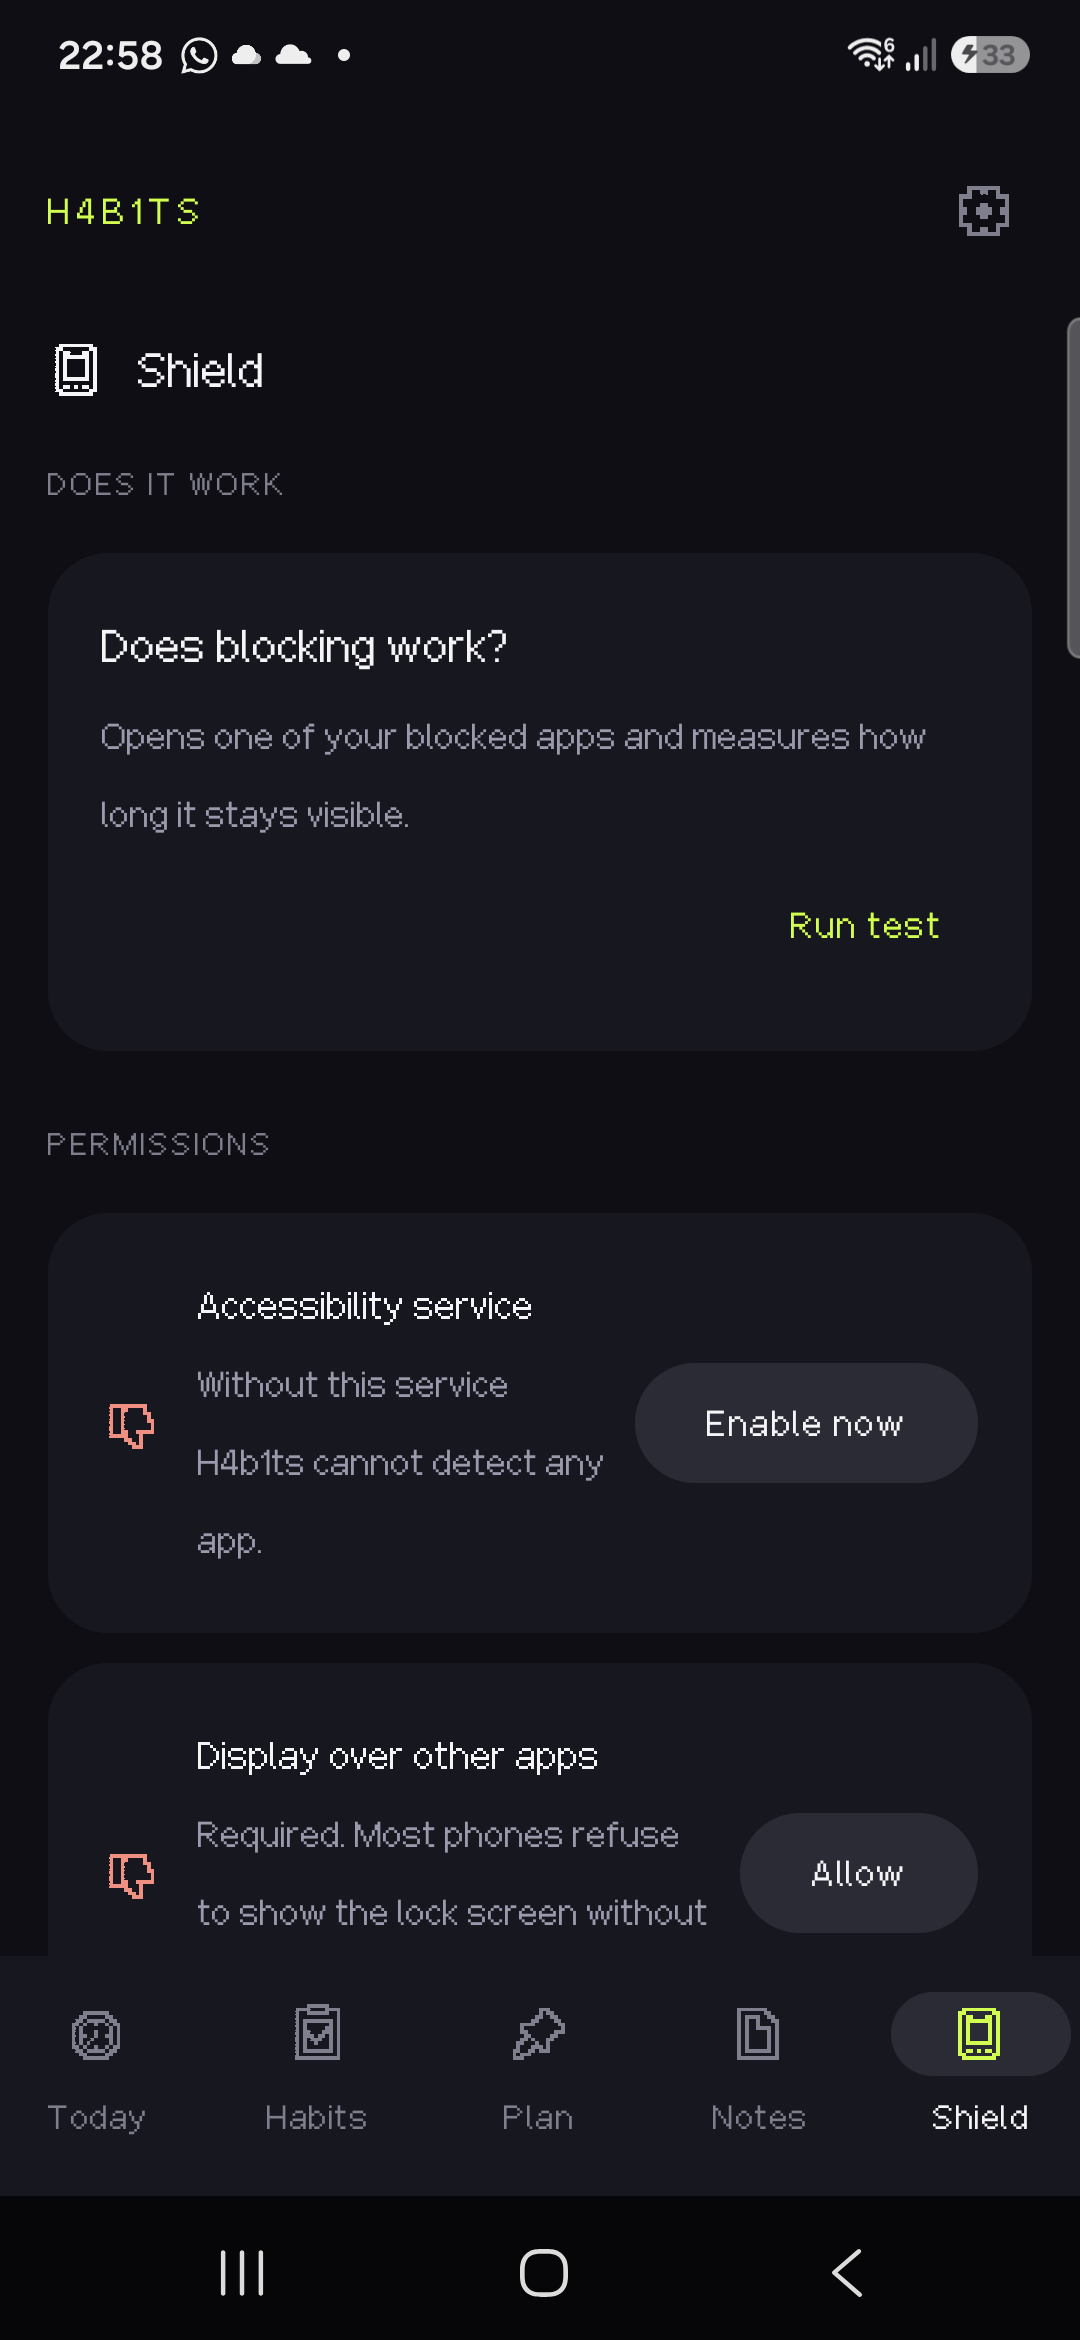
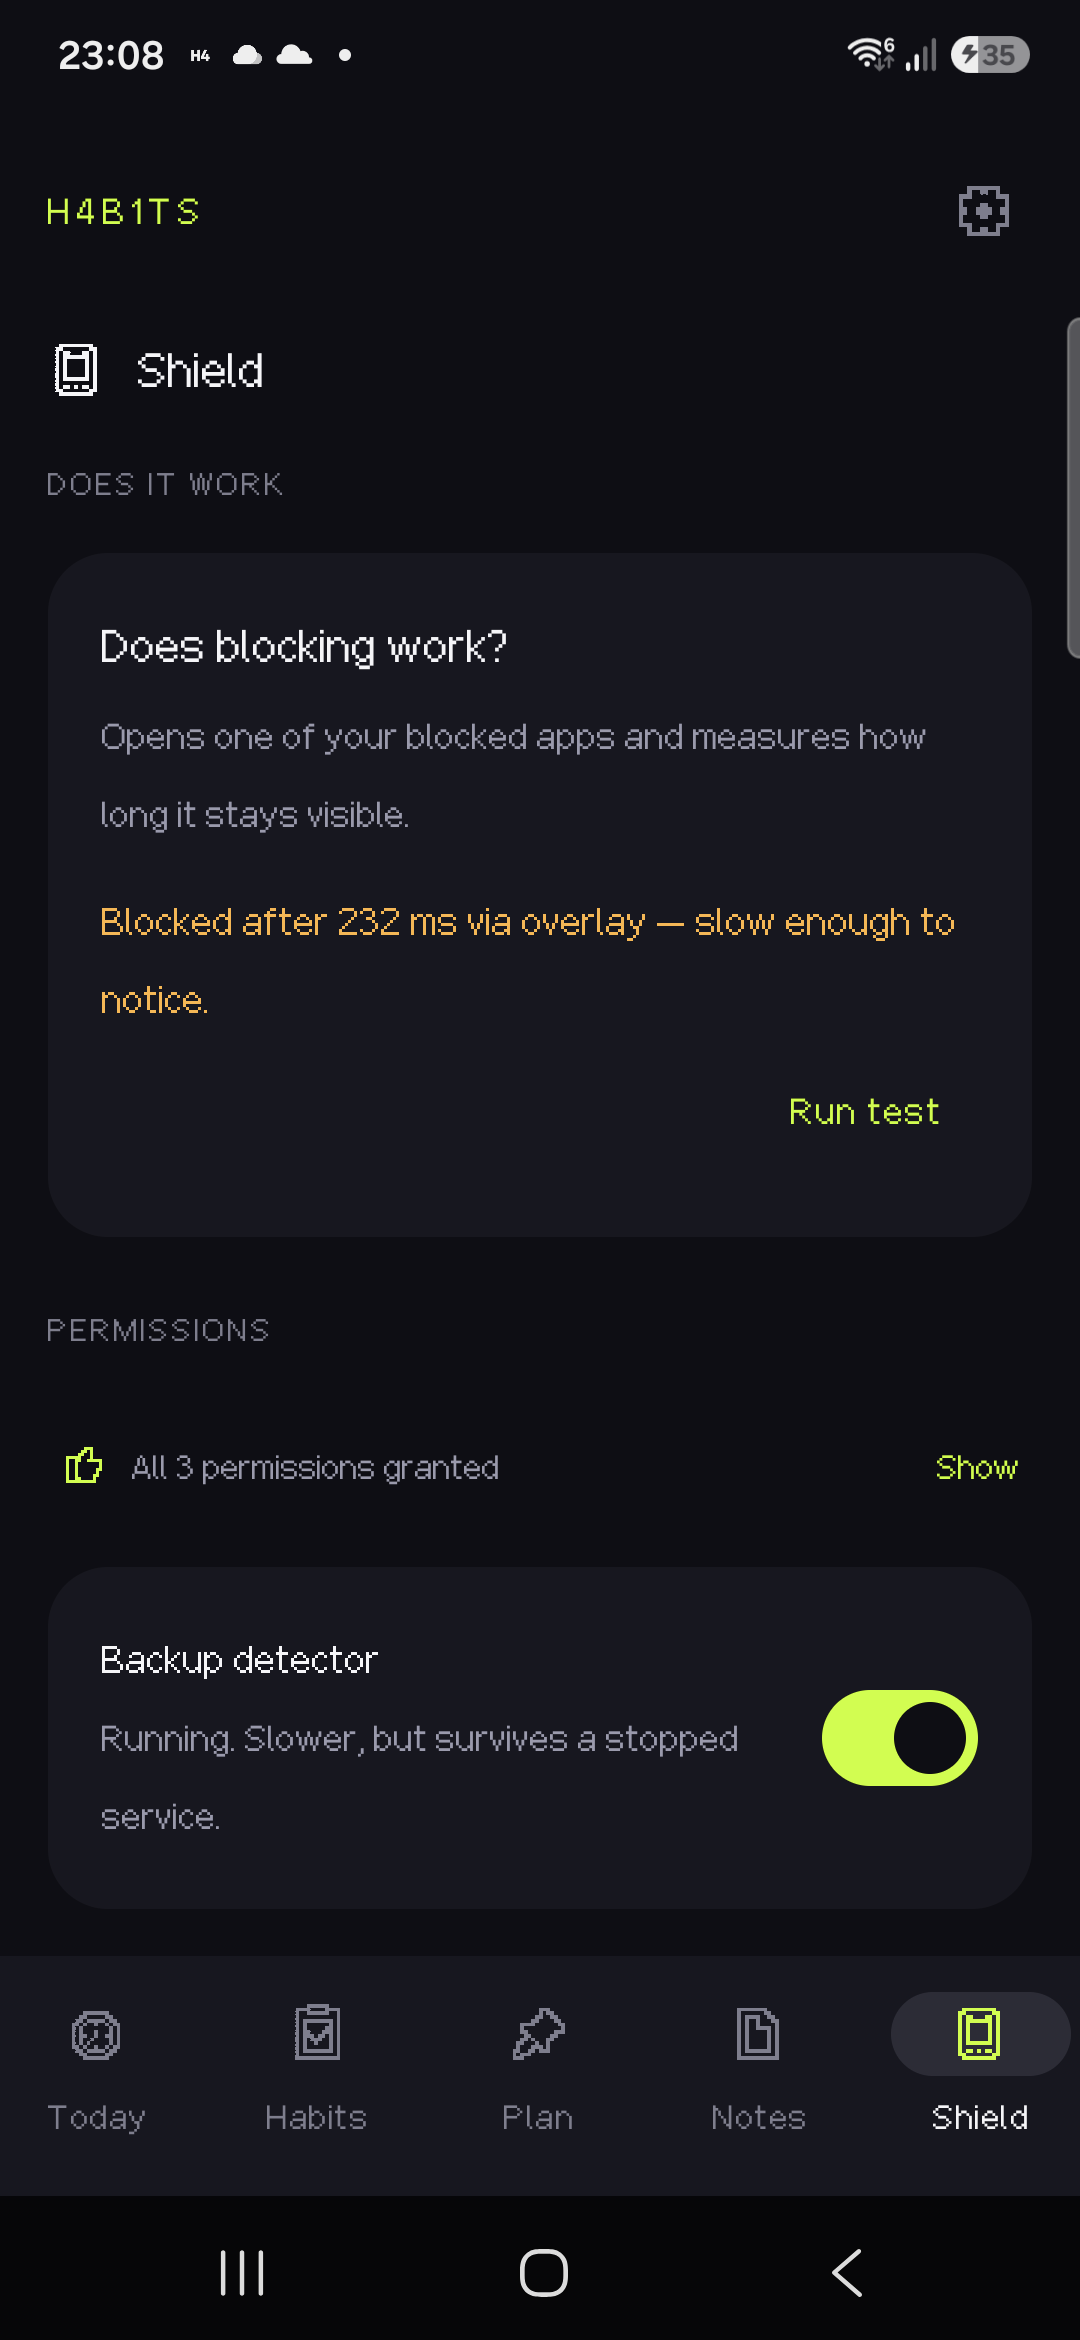
Shoot the screens the product is actually about
The first set showed the tracker and an empty shield. What distinguishes
this app from every other habit tracker — the block screen and a focus
session — was missing, because both need permissions that were not granted
yet. They are now.

- 5-block.png: a blocked app, in pure black with no accent, because a locked
  state is not supposed to have anything to offer
- 6-focus.png: session length and the strict toggle
- 4-shield.png replaced: it now shows all three permissions granted and the
  self-test result rather than a row of thumbs-down

The self-test reports "blocked after 232 ms via overlay", which the app
itself flags in orange as slow enough to notice. Blocking works; it took the
fallback path rather than the fast one. That is a finding to chase, not a
reason to hold the screenshots.

No focus session was actually started: that would have locked the owner's
phone for 25 minutes, and the dialog shows the mechanism well enough.

diff --git a/store/play-eintrag.md b/store/play-eintrag.md
@@ -168,17 +168,24 @@ Kontoeinstellung Englisch erwartet.
 |---|---|---|
 | App-Symbol | 512 × 512 PNG, 32 Bit | **vorhanden** — `branding/playstore-icon-512.png` |
 | Feature-Grafik | 1024 × 500 PNG/JPG | **vorhanden** — `branding/playstore-feature-1024x500.png` |
-| Screenshots Telefon | mind. 2, max. 8; kurze Seite ≥ 320 px | **4 vorhanden** — `branding/screenshots/`, 1080 × 2340 |
+| Screenshots Telefon | mind. 2, max. 8; kurze Seite ≥ 320 px | **6 vorhanden** — `branding/screenshots/`, 1080 × 2340 |
 | Screenshots Tablet | optional | — |
 
 Aufgenommen auf einem Galaxy S25 (Android 16) aus dem signierten
-Release-Build: Today, Habits, Plan, Shield.
+Release-Build, mit erteilten Berechtigungen:
 
-**Vor dem Upload neu aufnehmen.** In der Statusleiste steht ein
-Benachrichtigungssymbol — zulässig, aber schlampig. Mit eingeschaltetem
-„Nicht stören" wird der Satz sauber. Es fehlen außerdem die beiden Ansichten,
-die das Produkt eigentlich ausmachen: der Sperrbildschirm und eine
-Fokus-Sitzung. Beide brauchen erteilte Berechtigungen.
+| Datei | Zeigt |
+|---|---|
+| `1-today.png` | Tagesansicht mit Serie und Fortschritt |
+| `2-habits.png` | Gewohnheiten mit Identitätssatz und Wochentagen |
+| `3-plan.png` | Aufgaben |
+| `4-shield.png` | Schild mit Selbsttest-Ergebnis und Berechtigungen |
+| `5-block.png` | **der Sperrbildschirm** — das Unterscheidungsmerkmal |
+| `6-focus.png` | Fokus-Sitzung, Dauer und strenger Modus |
+
+**Vor dem Upload neu aufnehmen.** In der Statusleiste stehen
+Benachrichtigungssymbole — zulässig, aber schlampig. Mit eingeschaltetem
+„Nicht stören" wird der Satz sauber.
 
 ---
 
